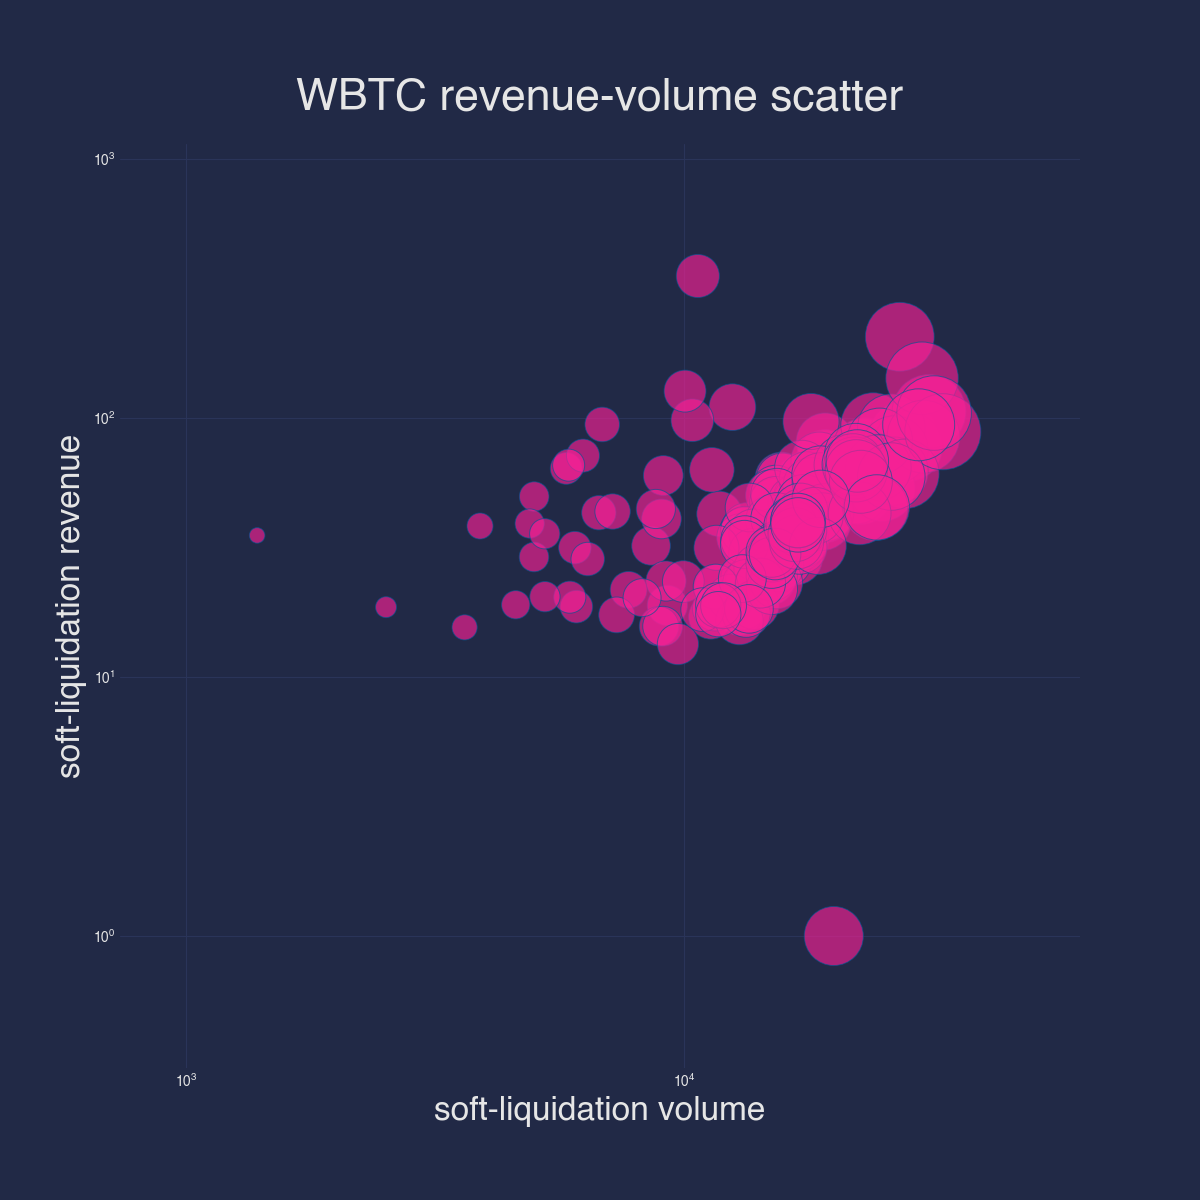
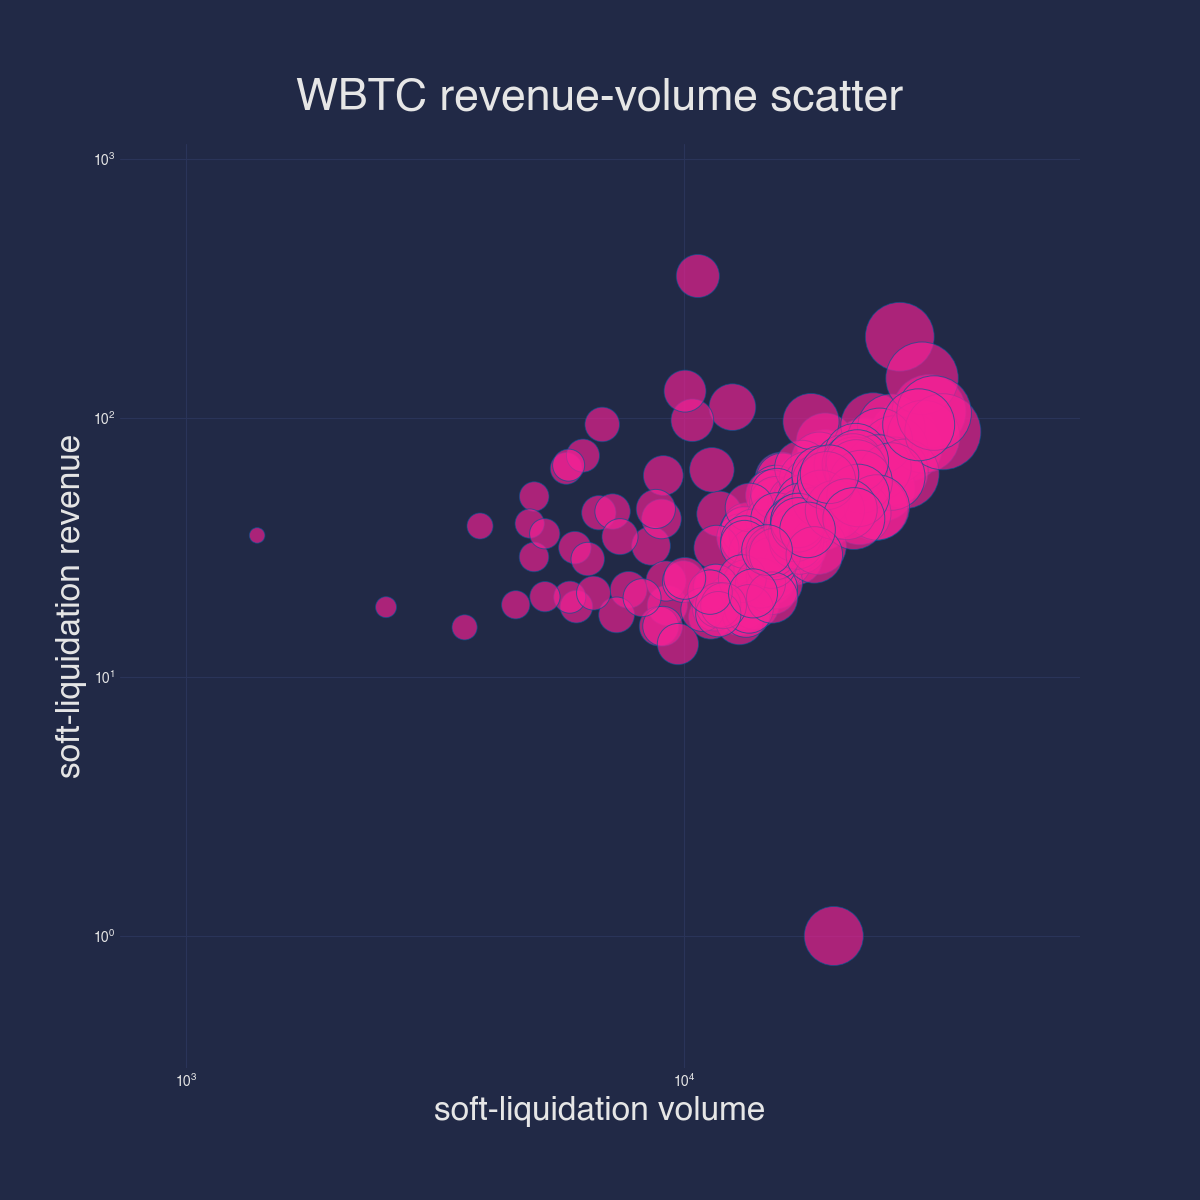
update liquidations img

Changed region(s): [[0.555, 0.37, 0.74, 0.5242], [0.4625, 0.4317, 0.555, 0.5242]]

diff --git a/scripts/3_statistics_data.py b/scripts/3_statistics_data.py
@@ -16,9 +16,9 @@ if __name__ == "__main__":
         folder_dir = "data/img/stat/%s" % (collateral)
         make_or_clean_dir(folder_dir)
 
-        # sort_arbi_type_stack(collateral)
-        # draw_daily_stat(collateral)
-        # detialed_trades_stat_dominance(collateral)
-        # detailed_trades_distribution(collateral)
-        # detailed_trades_stat_scatter(collateral)
+        sort_arbi_type_stack(collateral)
+        draw_daily_stat(collateral)
+        detialed_trades_stat_dominance(collateral)
+        detailed_trades_distribution(collateral)
+        detailed_trades_stat_scatter(collateral)
         draw_daily_stat(collateral)
